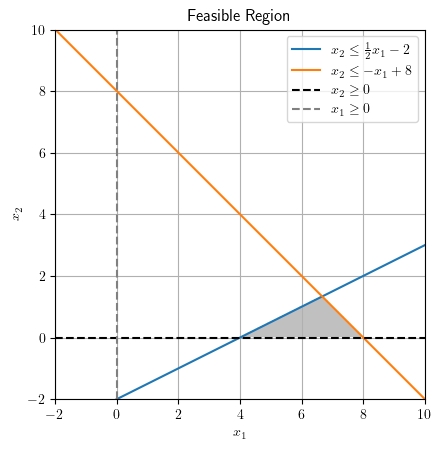
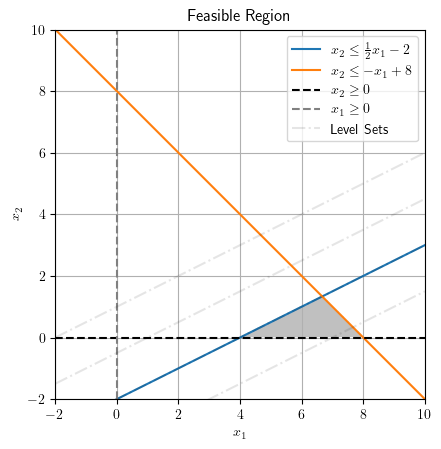
MATH5420: Added program to compute all basic solutions for a linear program.

Changed region(s): [[0.737, 0.2494, 0.8844, 0.3118], [0.6485, 0.2806, 0.7075, 0.3118]]

diff --git a/2023/spring/MATH5420_Optimization/Homework3/basic_solutions.py b/2023/spring/MATH5420_Optimization/Homework3/basic_solutions.py
@@ -1,0 +1,59 @@
+import numpy as np
+
+
+def compute_basic_solutions(A, b, level=0, start=0, basis=None, var_names=None):
+    # Assert A and b are 2d and 1d arrays, respectively
+    #
+    assert(len(A.shape) == 2)
+    assert(len(b.shape) == 1)
+
+    A_rows, A_cols = A.shape
+
+    assert(b.shape[0] == A_rows)
+
+    if var_names:
+        assert(len(var_names) == A_cols)
+
+    if basis is None:
+        basis = [None] * A_rows
+
+    # Recursively compute all permutations of basic solutions
+    #
+    for i in range(start, A_cols):
+        basis[level] = i
+        if level < A_rows - 1:
+            compute_basic_solutions(
+                A,
+                b,
+                level=level + 1,
+                start=(i + 1),
+                basis=basis,
+                var_names=var_names,
+            )
+        else:
+            B = np.array([A[:, beta] for beta in basis]).T
+            print('Basis: {}'.format([var_names[var] for var in basis] if var_names else basis))
+            print('{}'.format(B))
+            try:
+                print('Solution: {}'.format(np.linalg.solve(B, b)))
+            except np.linalg.LinAlgError:
+                print('Matrix is singular; two or more columns are linearly dependent.')
+            print('')
+
+
+if __name__ == '__main__':
+    # Test against Griva, Nash, Sofer Example 4.3
+    #
+    A = np.array((
+        (-2, 1, 1, 0, 0),
+        (-1, 1, 0, 1, 0),
+        ( 1, 0, 0, 0, 1)
+    ))
+
+    b = np.array((
+        2,
+        3,
+        3
+    ))
+
+    compute_basic_solutions(A, b, var_names=['x1', 'x2', 's1', 's2', 's3'])

diff --git a/2023/spring/MATH5420_Optimization/Homework3/problem_1ii.py b/2023/spring/MATH5420_Optimization/Homework3/problem_1ii.py
@@ -51,6 +51,13 @@ plt.plot(xx1[0, :], a5[0, :], label=r'$x_2 \le 6x_1 - 12$')
 plt.plot(xx1[0, :], a1[0, :], 'k--', label=r'$x_2 \ge {}$'.format(x2_min))
 plt.axvline(x=x1_min, label=r'$x_1 \ge {}$'.format(x1_min), color='gray', linestyle='dashed')
 
+objective_fn = lambda z, x1: z/2 - x1/2
+for i in np.arange(y_min, 2*y_max, (y_max - y_min) / 4):
+    if i == y_min:
+        plt.plot(xx1[0, :], objective_fn(i, xx1[0, :]), 'k-.', alpha=0.1, label='Level Sets')
+    else:
+        plt.plot(xx1[0, :], objective_fn(i, xx1[0, :]), 'k-.', alpha=0.1)
+
 plt.legend()
 plt.xlim((x_min, x_max))
 plt.ylim((y_min, y_max))

diff --git a/2023/spring/MATH5420_Optimization/Homework3/problem_1iii.py b/2023/spring/MATH5420_Optimization/Homework3/problem_1iii.py
@@ -45,6 +45,13 @@ plt.plot(xx1[0, :], a3[0, :], label=r'$x_2 \le -x_1 + 8$')
 plt.plot(xx1[0, :], a1[0, :], 'k--', label=r'$x_2 \ge {}$'.format(x2_min))
 plt.axvline(x=x1_min, label=r'$x_1 \ge {}$'.format(x1_min), color='gray', linestyle='dashed')
 
+objective_fn = lambda z, x1: -z/2 + x1/2
+for i in np.arange(y_min, y_max, (y_max - y_min) / 4):
+    if i == y_min:
+        plt.plot(xx1[0, :], objective_fn(i, xx1[0, :]), 'k-.', alpha=0.1, label='Level Sets')
+    else:
+        plt.plot(xx1[0, :], objective_fn(i, xx1[0, :]), 'k-.', alpha=0.1)
+
 plt.legend()
 plt.xlim((x_min, x_max))
 plt.ylim((y_min, y_max))

diff --git a/2023/spring/MATH5420_Optimization/Homework3/problem_3.tex b/2023/spring/MATH5420_Optimization/Homework3/problem_3.tex
@@ -2,13 +2,13 @@
 
 Convert the following linear program to standard form:
 
-\begin{maxi*}
+\begin{mini*}
   {}{z = x_1 - 5x_2 - 7x_3}{}{}
   \addConstraint{5x_1 - 2x_2 + 6x_3}{\geq 5}
   \addConstraint{3x_1 + 4x_2 - 9x_3}{=3}
   \addConstraint{7x_1 + 3x_2 + 5x_3}{\leq 9}
   \addConstraint{x_1 \geq -2, x_2, x_3\; }{\text{free}}.
-\end{maxi*}
+\end{mini*}
 
 \begin{solution}
   \ \\

diff --git a/2023/spring/MATH5420_Optimization/Homework3/problem_4i.py b/2023/spring/MATH5420_Optimization/Homework3/problem_4i.py
@@ -1,0 +1,15 @@
+import numpy as np
+
+from basic_solutions import compute_basic_solutions
+
+A = np.array((
+    (2, 1, 1, 0),
+    (1, 1, 0, 1)
+))
+
+b = np.array((
+    100,
+    80
+))
+
+compute_basic_solutions(A, b)
